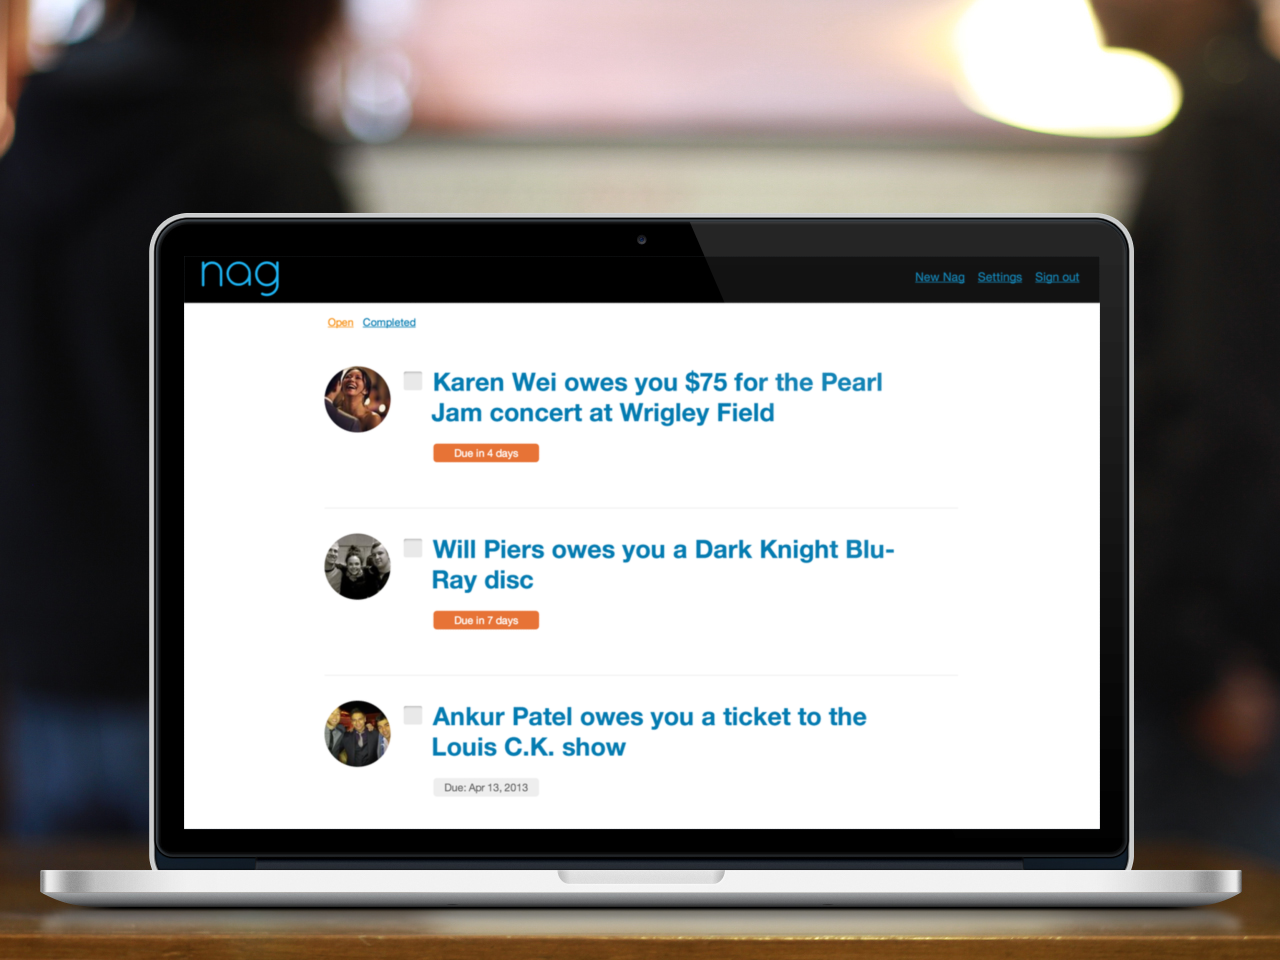
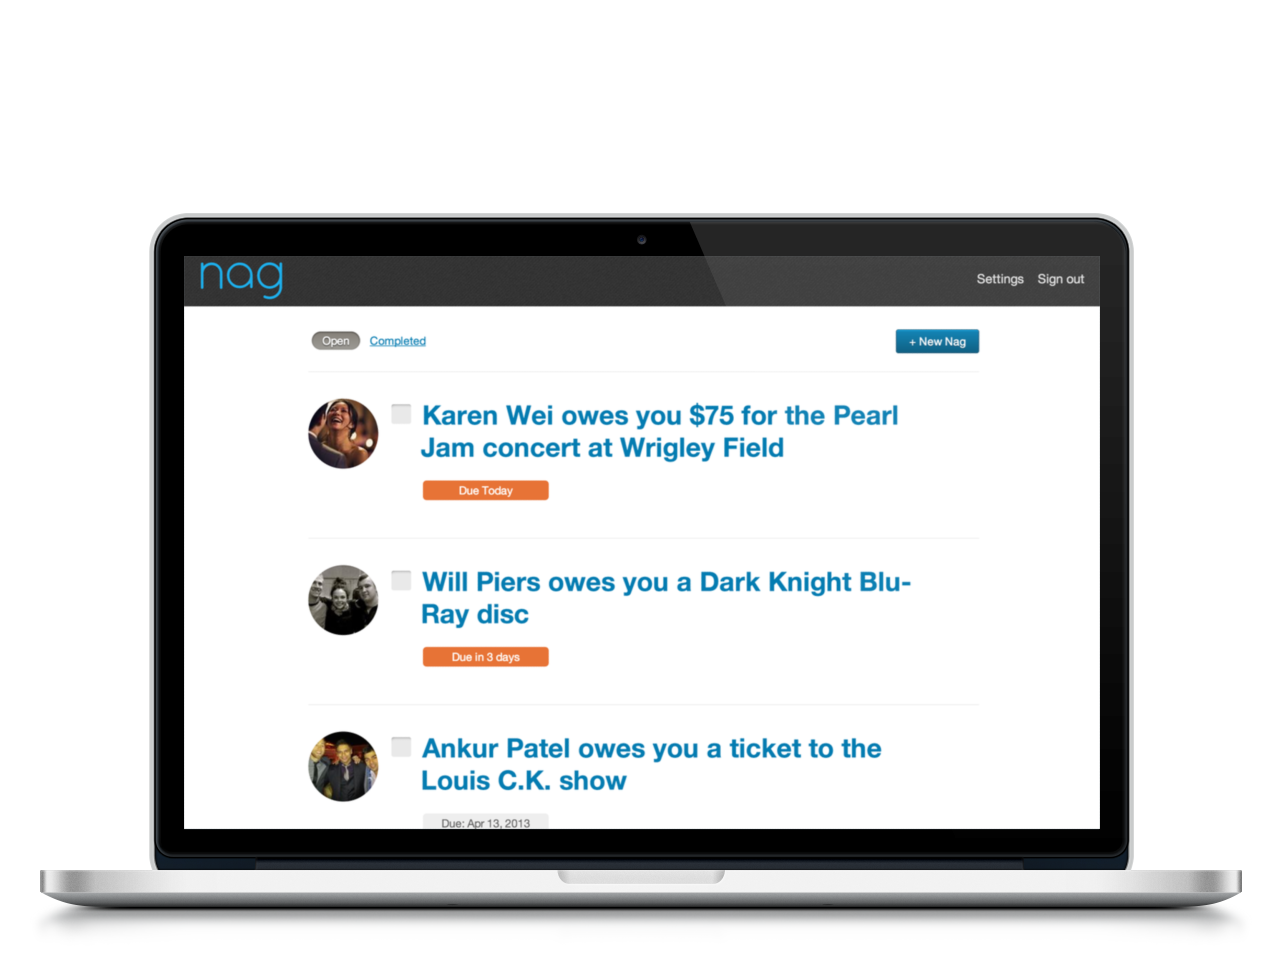
Rough cut of landing page

diff --git a/app/assets/stylesheets/application.sass b/app/assets/stylesheets/application.sass
@@ -179,47 +179,105 @@ textarea
   text-align: left
 
 .facebook-sign-in
-  width: 170px
+  width: 200px
   float: right
-  padding: 15px 7px 0 0 
+  padding: 0 7px 0 0 
 
 .feature
-  padding-top: 50px
+  position: relative
+  top: 0
+  left: 0
 
 .features
   padding: 0
+
+.feature-1
+  @extend .zero-box
+  height: 800px
+  background-image: url("/assets/laptop.png")
+  background-repeat: no-repeat
+  background-size: 900px 
+  background-position: 20px 20px
+  position: relative
+  top: 50px
+  left: 0
+  border-bottom: 1px solid #F2F2F2
   h2
-    text-align: center
-    +font-size-and-spacing(32)
+    font-size: +em(20)
+    line-height: +em(27)
     padding: 0 40px
     max-width: 700px
     margin: 0 auto
   p
-    text-align: center
-    +font-size-and-spacing(16)
+    font-size: +em(18)
+    line-height: +em(27)
     padding: 20px 40px 40px 40px
     max-width: 700px
     margin: 0 auto
-
-.feature-1
-  padding-top: 75%
-  background-image: url("/assets/laptop.png")
-  background-size: cover
+  .feature-text
+    position: absolute
+    top: 0
+    left: 130px
+    width: 700px
+    margin: 0 auto
+    text-align: center
 
 .feature-2
-  padding-top: 66.640625%
-  background-image: url("/assets/iphone-white-reminder.png")
+  @extend .zero-box
+  padding-top: 75.625%
+  background-image: url("/assets/iphone-facebook-message.png") 
+  background-position: 250px 0px
   background-size: cover
+  position: relative
+  top: 0
+  left: 0
+  border-bottom: 1px solid #F2F2F2
+  h2
+    font-size: +em(32)
+    line-height: +em(27)
+    padding: 0 40px
+    max-width: 700px
+    margin: 0 auto
+  p
+    font-size: +em(28)
+    line-height: +em(27)
+    padding: 20px 40px 40px 40px
+    max-width: 700px
+    margin: 0 auto
+  .feature-text
+    position: absolute
+    top: 100px 
+    left: 0
+    width: 575px
 
 .feature-3
-  padding-top: 66.4285714%
-  background-image: url("/assets/ipad-mini.png")
+  @extend .zero-box
+  padding-top: 71.640625%
+  background-image: url("/assets/ipad-home.png")
   background-size: cover
-
-.feature-4
-  padding-top: 66.640625%
-  background-image: url("/assets/iphone-black.png")
-  background-size: cover
+  background-repeat: no-repeat
+  background-position: 0 175px
+  position: relative
+  top: 0
+  left: 0
+  h2
+    font-size: +em(20)
+    line-height: +em(27)
+    padding: 0 40px
+    max-width: 700px
+    margin: 0 auto
+  p
+    font-size: +em(18)
+    line-height: +em(27)
+    padding: 20px 40px 40px 40px
+    max-width: 700px
+    margin: 0 auto
+  .feature-text
+    position: absolute
+    top: 0
+    left: 0
+    width: 700px
+    margin: 0 auto
 
 .filters
   display: block
@@ -236,11 +294,11 @@ textarea
   +border-radius(5px)  
 
 .hero 
-  max-width: 1280px
   margin: 0
   h2
-    padding: 10px 10px
+    padding: 10px 10px 30px 10px
     text-align: center
+  border-bottom: 1px solid #F2F2F2
 
 .hero-image
   // padding-top: 66.640625%
@@ -261,7 +319,7 @@ textarea
   background: yellow
 
 .landing-container
-  width: 100%
+  width: 960px
   margin: 0 auto
   border: 1px solid #ccc
   +border-radius(5px)
@@ -269,12 +327,17 @@ textarea
   position: relative
   top: 0
   left: 0
-  max-width: 960px
   // font-family: "Oxygen", Helvetica , serif
 
-
 .landing-header
-  height: 75px
+  height: 50px
+  padding-top: 10px
+
+.landing-logo
+  width: 300px
+  margin: 0 auto
+  padding: 10px 0 0 10px
+  display: block
 
 .lender-photo
   display: none // hides in narrow view
@@ -307,7 +370,6 @@ textarea
   .alert-box, .alert-box-high-priority, h2
     margin-left: 35px
 
-
 .nag-completed // this one needs to stay below .nag-details to cascade the a:hover style
   text-decoration: line-through
   a
@@ -334,6 +396,12 @@ textarea
   border: 2px solid $alert-success-border-color
   color: $alert-success-text-color
   background-color: $alert-success-bg-color
+.newnag-btn
+  display: none
+
+.newnag-link
+  display: block  
+
 .newnag-btn
   display: none
 
@@ -385,6 +453,10 @@ textarea
   +font-size-and-spacing(13)
   a
     padding: 0 5px
+
+.white
+  // +linear-gradient(#f1f0f0, #fff)
+  background: #f1f0f0
 
 
 // ****************************************************************************

diff --git a/app/assets/stylesheets/_shared.sass b/app/assets/stylesheets/_shared.sass
@@ -64,7 +64,7 @@ $form-error-color: #E35205
   border-radius: $border-radius
 
 @mixin font-size-and-spacing($font-size)
-  line-height: (1.5 * $font-size)px
+  line-height: (1.5 * $font-size) px
   font-size: +em($font-size)
 
 @mixin grayscale

diff --git a/app/controllers/sessions_controller.rb b/app/controllers/sessions_controller.rb
@@ -16,6 +16,6 @@ class SessionsController < ApplicationController
 
   def destroy
     reset_session
-    redirect_to login_url, alert: 'Signed out successfully'
+    redirect_to login_url
   end
 end
